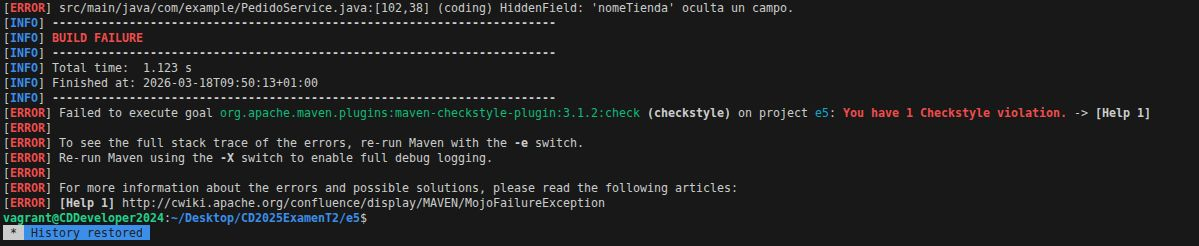
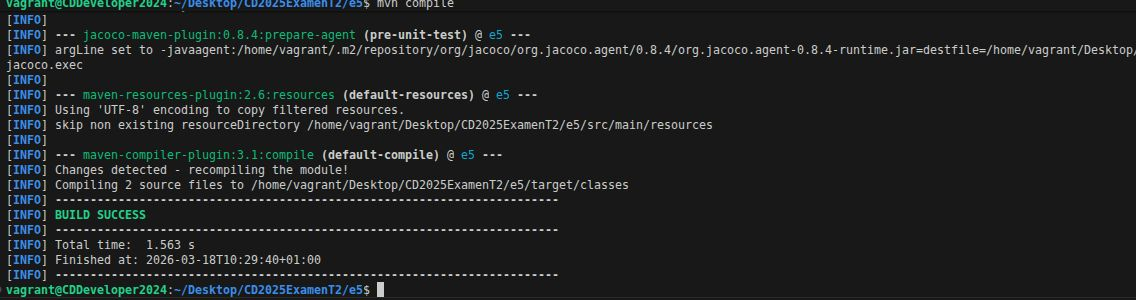
e2 terminado y e5 corregido

Changed region(s): [[0.0, 0.0, 1.0, 0.9959]]

diff --git a/e5/src/main/java/com/example/PedidoService.java b/e5/src/main/java/com/example/PedidoService.java
@@ -99,8 +99,8 @@ public class PedidoService {
         return nomeTienda;
     }
 
-    public void setnomeTienda(String nomeTienda) {
-        this.nomeTienda = nomeTienda;
+    public void setnomeTienda(String nomeTenda) {
+        this.nomeTienda = nomeTenda;
     }
 
 }
